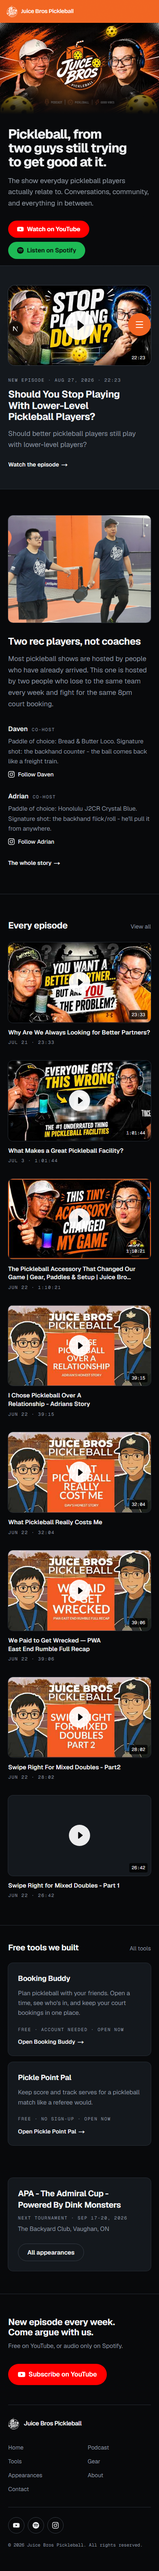
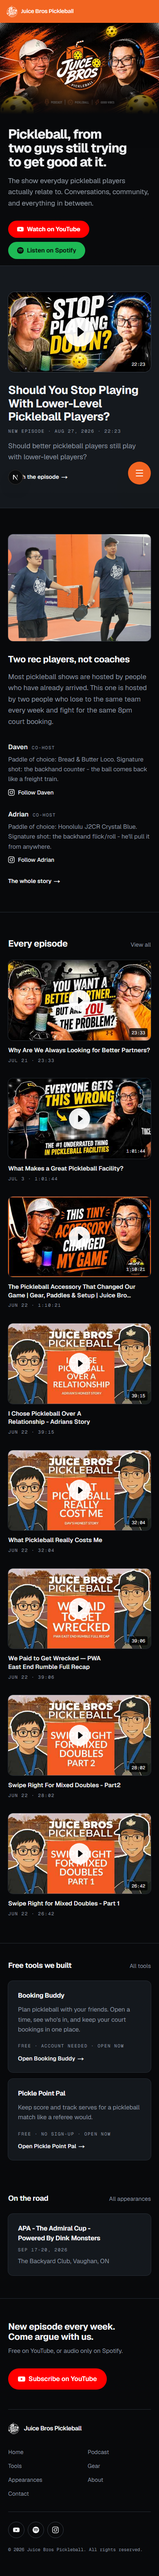
Home: apply the finish reviewer's seven material fixes
The reviewer returned `fix` on the layout pass. All seven applied:

1. The heading ladder collapsed below 640px - every clamp bottomed out on
   its floor, so four rank tiers rendered 24/22/20px, a 4px spread, and
   the heading channel simply did not exist on a phone. Floors are now
   28/22/18/16px and a new step gets checked at 390 before 1440.
2. The `New episode · date · runtime` line sat above the Now Playing h2.
   A label over a heading is an eyebrow whatever data it carries, and the
   craft floor bans it outright. Metadata now follows the title, matching
   the archive cards and the tournament panel.
3. Now Playing and the hosts tied on heading step, and the hosts had more
   air than the band - so of three rank channels, two said the hosts
   outranked the newest episode. The hosts drop to the headline step and
   the band takes the most air on the page.
4. The tournament had no section label; once its hairline went it was an
   unidentifiable card floating in the shelf. It now uses the shelf's own
   pattern: a label heading with its "All appearances" link, then a panel.
5. An archive card's thumbnail link is aria-hidden/tabIndex -1, so
   `.bx-tile:focus-visible` could never fire and keyboard visitors got a
   focus ring with none of the page's one gesture. `.bx-card:focus-within`
   mirrors it.
6. Three identical-looking arrow links behaved two ways. All three now
   carry the same nudge.
7. The raised fill was documented at "~1.2:1" and measures 1.12:1.
[…]

diff --git a/src/app/(home)/sections/now-playing.tsx b/src/app/(home)/sections/now-playing.tsx
@@ -6,7 +6,9 @@ import { PlayMark } from "./play-mark";
 import { formatAired, formatRuntime } from "./format";
 
 /**
- * The newest episode, on the page's one raised band directly under the hero.
+ * The newest episode, on the page's one raised band directly under the hero,
+ * and the page's rank-one section: the peak heading step, the most vertical
+ * air on the page, and the only lighter ground.
  *
  * The hero owns the whole first screen (Adrian's call - the two hosts in
  * frame), so this is where the page pays back the missing playable thing: the
@@ -20,7 +22,7 @@ export function NowPlaying({ episode }: { episode: Episode }) {
 
   return (
     <section className="bx-band">
-      <div className="bx-measure py-12 sm:py-16 lg:py-20">
+      <div className="bx-measure py-16 sm:py-24 lg:py-28">
         <div className="grid gap-7 lg:grid-cols-[minmax(0,38rem)_1fr] lg:items-center lg:gap-12">
           <Link
             href={`/podcast/${episode.slug}`}
@@ -41,14 +43,11 @@ export function NowPlaying({ episode }: { episode: Episode }) {
           </Link>
 
           <div>
-            <p className="bx-meta">
-              New episode
-              <span aria-hidden> · </span>
-              {formatAired(episode.published)}
-              <span aria-hidden> · </span>
-              {formatRuntime(episode.duration)}
-            </p>
-            <h2 className="bx-h2 mt-3 max-w-[20ch] text-[clamp(1.5rem,3.4vw,2.125rem)]">
+            {/* Title first, metadata under it - the same order the archive
+                cards and the tournament panel use. A label above a heading is
+                an eyebrow whatever data it carries, and it made the largest
+                type in the section the second thing read. */}
+            <h2 className="bx-h2 max-w-[20ch] text-[clamp(1.75rem,3.4vw,2.125rem)]">
               <Link
                 href={`/podcast/${episode.slug}`}
                 className="transition-colors duration-200 hover:text-[var(--bx-muted)]"
@@ -56,6 +55,13 @@ export function NowPlaying({ episode }: { episode: Episode }) {
                 {episodeMetaTitle(episode.title)}
               </Link>
             </h2>
+            <p className="bx-meta mt-3">
+              New episode
+              <span aria-hidden> · </span>
+              {formatAired(episode.published)}
+              <span aria-hidden> · </span>
+              {formatRuntime(episode.duration)}
+            </p>
             {hook && (
               <p className="mt-3.5 max-w-[48ch] text-[1.0625rem] leading-relaxed text-[var(--bx-muted)]">
                 {hook}
@@ -63,10 +69,10 @@ export function NowPlaying({ episode }: { episode: Episode }) {
             )}
             <Link
               href={`/podcast/${episode.slug}`}
-              className="mt-6 inline-flex text-sm font-semibold transition-colors duration-200 hover:text-[var(--bx-muted)]"
+              className="group mt-6 inline-flex text-sm font-semibold transition-colors duration-200 hover:text-[var(--bx-muted)]"
             >
               Watch the episode
-              <span aria-hidden className="ml-1.5">
+              <span aria-hidden className="ml-1.5 inline-block transition-transform duration-200 group-hover:translate-x-0.5">
                 &rarr;
               </span>
             </Link>

diff --git a/src/app/globals.css b/src/app/globals.css
@@ -2428,9 +2428,10 @@ html:has(.bb-app-chrome) {
        The steps are set to what a screen can actually show: the first build
        had rings at 1.16:1 and a raised fill at 1.07:1 against the ground,
        which is a value difference on paper and nothing at all on a panel.
-       Now the resting ring sits at ~1.4:1 (the register Vercel's dark border
-       uses), the hover ring at ~1.75:1, and the raised fill at ~1.2:1 -
-       enough that a full-width band reads as a band. */
+       Measured off the shipped pixels, the resting ring now sits at 1.42:1
+       (the register Vercel's dark border uses), the hover ring at 1.81:1, and
+       the raised fill at 1.12:1 - lower than either line, and enough only
+       because it is spent across a full-bleed region rather than a hairline. */
     --bx-bg: #08090b;
     --bx-raised: #14181d;
     --bx-raised-2: #1b2027;
@@ -2496,7 +2497,9 @@ html:has(.bb-app-chrome) {
     letter-spacing: -0.02em;
     line-height: 1.15;
   }
-  /* Metadata only: dates, runtimes, counts, section kickers. Never body copy. */
+  /* Metadata only: dates, runtimes, counts. Never body copy, and never above
+     the heading it belongs to - a label over a heading is an eyebrow whatever
+     data it carries. It sits beneath. */
   .bx-meta {
     font-family: var(--font-geist-mono), ui-monospace, monospace;
     font-size: 0.6875rem;
@@ -2562,6 +2565,20 @@ html:has(.bb-app-chrome) {
   .bx-tile:hover, .bx-tile:focus-visible { box-shadow: 0 0 0 1px var(--bx-line), var(--bx-shadow); }
 
   .bx-stage { border-radius: var(--bx-radius-lg); }
+
+  /* An archive card's thumbnail link is `aria-hidden` with `tabIndex={-1}` -
+     the title beside it is the real link - so `.bx-tile:focus-visible` can
+     never fire there, and a keyboard visitor got a focus ring with none of the
+     page's one gesture. Mirror it from the card, so tabbing a title lifts its
+     thumbnail exactly as pointing at it does. */
+  .bx-card:focus-within .bx-tile { box-shadow: 0 0 0 1px var(--bx-line), var(--bx-shadow); }
+  .bx-card:focus-within .bx-play { background: #fff; scale: 1.06; }
+  @media (prefers-reduced-motion: no-preference) {
+    .bx-card:focus-within .bx-tile { transform: translateY(-3px); }
+  }
+  @media (prefers-reduced-motion: reduce) {
+    .bx-card:focus-within .bx-play { scale: 1; }
+  }
 
   /* The play affordance, drawn rather than borrowed from an icon set. */
   .bx-play {

diff --git a/src/app/(home)/sections/on-the-road.tsx b/src/app/(home)/sections/on-the-road.tsx
@@ -6,6 +6,11 @@ import { formatAppearanceDates, nextConfirmedAppearance } from "@/lib/appearance
 /**
  * The next confirmed tournament. Renders nothing when there is no confirmed
  * date, rather than printing an empty promise.
+ *
+ * Built in the shelf's own pattern - a section label with its "all of them"
+ * link, then the panel - so the shelf reads as two matching sections rather
+ * than one labelled section plus an unidentifiable card. Without the label the
+ * only thing naming this section was an 11px mono line inside the panel.
  */
 export function OnTheRoad() {
   const next = nextConfirmedAppearance(appearances);
@@ -13,19 +18,20 @@ export function OnTheRoad() {
 
   return (
     <section className="bx-measure py-10 sm:py-14">
-      <div className="bx-panel flex flex-col gap-6 p-6 sm:flex-row sm:items-center sm:justify-between sm:p-8">
-        <div>
-          <h2 className="bx-h2 max-w-[26ch] text-xl">{next.name}</h2>
-          <p className="bx-meta mt-2.5">
-            Next tournament
-            <span aria-hidden> · </span>
-            {formatAppearanceDates(next)}
-          </p>
-          <p className="mt-2 text-[0.9375rem] text-[var(--bx-muted)]">{next.location}</p>
-        </div>
-        <Link href="/appearances" className="bx-btn bx-btn-ghost shrink-0 self-start sm:self-auto">
+      <div className="flex items-baseline justify-between gap-6">
+        <h2 className="bx-h2 text-lg sm:text-xl">On the road</h2>
+        <Link
+          href="/appearances"
+          className="text-sm text-[var(--bx-muted)] transition-colors duration-200 hover:text-[var(--bx-ink)]"
+        >
           All appearances
         </Link>
+      </div>
+
+      <div className="bx-panel mt-6 p-6 sm:p-7">
+        <h3 className="bx-h2 max-w-[26ch] text-base sm:text-lg">{next.name}</h3>
+        <p className="bx-meta mt-2">{formatAppearanceDates(next)}</p>
+        <p className="mt-2 text-[0.9375rem] text-[var(--bx-muted)]">{next.location}</p>
       </div>
     </section>
   );

diff --git a/src/app/(home)/sections/the-hosts.tsx b/src/app/(home)/sections/the-hosts.tsx
@@ -4,7 +4,7 @@ import { team } from "@/content/team";
 import { InstagramIcon } from "@/components/icons";
 
 /**
- * The two hosts, third on the page and its second peak.
+ * The two hosts, third on the page.
  *
  * The h1 claims "two guys still trying to get good at it"; this is the only
  * section that proves it - real names, the on-court photo, the paddle each of
@@ -41,7 +41,10 @@ export function TheHosts() {
         </figure>
 
         <div>
-          <h2 className="bx-h2 text-[clamp(1.5rem,3.4vw,2.125rem)]">
+          {/* The headline step, not the peak one: this section outranks the
+              shelf and ties the archive, but the newest episode leads the page
+              and has to be able to say so. */}
+          <h2 className="bx-h2 text-[clamp(1.375rem,3.2vw,1.875rem)]">
             Two rec players, not coaches
           </h2>
           <p className="mt-4 max-w-[46ch] text-[1.0625rem] leading-relaxed text-[var(--bx-muted)]">
@@ -75,10 +78,10 @@ export function TheHosts() {
 
           <Link
             href="/about"
-            className="mt-8 inline-flex text-sm font-semibold transition-colors duration-200 hover:text-[var(--bx-muted)]"
+            className="group mt-8 inline-flex text-sm font-semibold transition-colors duration-200 hover:text-[var(--bx-muted)]"
           >
             The whole story
-            <span aria-hidden className="ml-1.5">
+            <span aria-hidden className="ml-1.5 inline-block transition-transform duration-200 group-hover:translate-x-0.5">
               &rarr;
             </span>
           </Link>

diff --git a/src/app/(home)/sections/free-tools.tsx b/src/app/(home)/sections/free-tools.tsx
@@ -16,7 +16,7 @@ export function FreeTools() {
   return (
     <section className="bx-measure bx-hair py-10 sm:py-14">
       <div className="flex items-baseline justify-between gap-6">
-        <h2 className="bx-h2 text-xl">Free tools we built</h2>
+        <h2 className="bx-h2 text-lg sm:text-xl">Free tools we built</h2>
         <Link
           href="/tools"
           className="text-sm text-[var(--bx-muted)] transition-colors duration-200 hover:text-[var(--bx-ink)]"
@@ -28,7 +28,7 @@ export function FreeTools() {
       <div className="mt-6 grid gap-4 md:grid-cols-2">
         {apps.map((app) => (
           <Link key={app.slug} href={app.href} className="bx-panel group flex flex-col p-6 sm:p-7">
-            <h3 className="bx-h2 text-lg transition-colors duration-200 group-hover:text-[var(--bx-muted)]">
+            <h3 className="bx-h2 text-base transition-colors duration-200 group-hover:text-[var(--bx-muted)] sm:text-lg">
               {app.title}
             </h3>
             <p className="mt-2.5 max-w-[46ch] text-[0.9375rem] leading-relaxed text-[var(--bx-muted)]">

diff --git a/src/app/(home)/sections/from-instagram.tsx b/src/app/(home)/sections/from-instagram.tsx
@@ -11,7 +11,7 @@ export function FromInstagram({ posts }: { posts: InstagramPost[] }) {
   return (
     <section className="bx-measure py-10 sm:py-14">
       <div className="flex items-baseline justify-between gap-6">
-        <h2 className="bx-h2 text-xl">Between episodes</h2>
+        <h2 className="bx-h2 text-lg sm:text-xl">Between episodes</h2>
         <a
           href={siteConfig.links.instagram}
           target="_blank"

diff --git a/src/app/(home)/sections/archive.tsx b/src/app/(home)/sections/archive.tsx
@@ -33,7 +33,7 @@ export function Archive({ episodes }: { episodes: Episode[] }) {
           const runtime = formatRuntime(episode.duration);
           return (
             <li key={episode.id}>
-              <article>
+              <article className="bx-card">
                 <Link
                   href={`/podcast/${episode.slug}`}
                   className="bx-tile group aspect-video"

diff --git a/DESIGN.md b/DESIGN.md
@@ -132,7 +132,7 @@ fighting them.
 
 **Key Characteristics:**
 - Near-black page ground, one raised surface set a visible step above it (~1.2:1) with rings at ~1.4:1; no third "quiet" grey step for ink
-- The page has two peaks below the hero: Now Playing on a full-bleed raised band, then the hosts; the archive follows, and the rest is a compressed shelf
+- The page has one peak below the hero — Now Playing, on a full-bleed raised band — then the hosts and the archive as equal-rank majors, then a compressed shelf
 - Brand orange is the floating pill nav's ground and the mobile corner button's fill — the global chrome, never a private bar, and never the subscribe colour
 - Two platform colours (YouTube red, Spotify green) carry their own ink decisions, reasoned from contrast math and each platform's own brand guidance
 - One shared hover/focus gesture (lift + brighten) used identically everywhere a thumbnail appears
@@ -152,10 +152,10 @@ The palette is a near-black neutral scale plus brand orange and two destination-
 
 ### Neutral
 - **Ground** (`#08090b`): the page background — cool near-black, not warm.
-- **Raised** (`#14181d`): the one raised surface — panels, tiles, the stage, and the full-bleed Now Playing band. ~1.2:1 on the ground: the least step at which a band is still seen as a band.
+- **Raised** (`#14181d`): the one raised surface — panels, tiles, the stage, and the full-bleed Now Playing band. 1.12:1 on the ground, measured: lower than either line token, and legible only because it is spent across a full-bleed region.
 - **Raised (hover)** (`#1b2027`): the hover state of a raised panel.
-- **Line** (`#363d46`): borders on hover/focus states, and the resting ring of a tile that sits on the band (~1.75:1 on the ground).
-- **Line, soft** (`#262c34`): resting borders and hairline section dividers. ~1.4:1 on the ground, the register Vercel's dark border sits at. The first build shipped `#191d22` here, which measures 1.16:1 and did not render on a real panel — the reason the page read as "nothing sticks out".
+- **Line** (`#363d46`): borders on hover/focus states, and the resting ring of a tile that sits on the band (1.81:1 on the ground).
+- **Line, soft** (`#262c34`): resting borders and hairline section dividers. 1.42:1 on the ground, the register Vercel's dark border sits at. The first build shipped `#191d22` here, which measures 1.16:1 and did not render on a real panel — the reason the page read as "nothing sticks out".
 - **Line, strong** (`#48505a`): the hover ring of a tile on the band, one step above Line so the gesture still reads on the lighter ground.
 - **Ink** (`#f2f4f6`): primary text and iconography. Clears 6.6:1 on the ground.
 - **Muted** (`#8f98a3`): the only secondary-text step. Also clears strong contrast on the ground; there is deliberately no third, fainter grey.
@@ -163,7 +163,7 @@ The palette is a near-black neutral scale plus brand orange and two destination-
 ### Named Rules
 **The Chrome-Carries-No-Control Rule.** Brand orange is the floating pill nav's ground and the mobile corner button's fill, and the nav carries identity and links only — no subscribe pill, no button of any kind. A control on an orange ground would have to be near-black or an outline to be seen at all, and either reads weaker than the same action on the page ground. So the subscribe path lives where it can wear its own colour: the YouTube-red and Spotify-green buttons in the hero, and the YouTube-red close in the footer.
 
-**The Visible-Step Rule.** Every value step in this system has to survive a real screen. A ring or a raised fill that only differs from the ground on paper is a hierarchy that does not exist: the first build's rings measured 1.16:1 and its raised fill 1.07:1, and the page read as flat black with text on it. The floor is ~1.4:1 for a hairline or resting ring and ~1.2:1 for a fill that has to read as a region. When a new surface needs to recede, use size, weight or spacing, not a step below that floor.
+**The Visible-Step Rule.** Every value step has to survive a real screen, and the floor depends on how much area the step is spent across. A hairline or a resting ring needs **1.4:1** against its ground; a fill covering a full-bleed region gets away with **1.1:1**, because area does the work a thin line cannot. The first build ignored both: rings at 1.16:1 and a raised fill at 1.07:1, and the page read as flat black with text on it. Measure what you ship rather than estimating it — `#14181d` was documented here as "~1.2:1" and actually measures 1.12:1. When a new surface needs to recede, use size, weight or spacing, not a step below these floors.
 
 **Platform Colours Carry Their Own Ink.** The YouTube and Spotify buttons wear their destinations' brand colors, each with its own reasoned ink choice (white for YouTube red at 4.0:1, kept for brand fidelity; near-black for Spotify green at 8.2:1, both for contrast and to match Spotify's own guidance). Do not default new destination buttons to the page's ink/bg pair — resolve ink per platform color the same way.
 
@@ -181,16 +181,22 @@ The palette is a near-black neutral scale plus brand orange and two destination-
 - **Headline** (700, `clamp(1.375rem, 3.2vw, 1.875rem)` down to a fixed 1.375rem/2xl at section scale, line-height 1.15, letter-spacing −0.02em): section headings and the featured episode title.
 - **Body** (400, 1.0625rem, line-height ~1.6, `leading-relaxed`): standfirst copy, capped around 46–58ch measure.
 - **Body Small** (400, 0.9375rem, line-height ~1.6): supporting copy — card descriptions, footer text, host bios — used wherever body copy needs to sit a step down from the lead line without dropping into label territory.
-- **Label** (400, 0.6875rem, letter-spacing 0.14em, uppercase, tabular numerals, Geist Mono, muted color): dates, runtimes, counts, and the "New episode" / "Next tournament" style kickers that sit directly beside real data. Never used for body copy.
+- **Label** (400, 0.6875rem, letter-spacing 0.14em, uppercase, tabular numerals, Geist Mono, muted color): dates, runtimes and counts. Never used for body copy, and never placed above the heading it belongs to — see The Metadata-Sits-Under-Its-Heading Rule.
 
 Section headings run on three steps, and the step is what tells a visitor how much a section matters:
 
-- **Peak** (`clamp(1.5rem, 3.4vw, 2.125rem)`): the two sections the page is actually for — the Now Playing title and "Two rec players, not coaches".
-- **Headline** (`clamp(1.375rem, 3.2vw, 1.875rem)`): the episode archive, and the footer's closing line.
-- **Minor** (`1.25rem`): the supporting shelf — Free tools, the next tournament, the Instagram strip. Inside a shelf section, content headings drop a step further (`1.125rem` on the tool names) so the local hierarchy still holds.
+- **Peak** (`clamp(1.75rem, 3.4vw, 2.125rem)`): the Now Playing title, alone. This is the section the page exists to deliver, and nothing else takes this step.
+- **Headline** (`clamp(1.375rem, 3.2vw, 1.875rem)`): "Two rec players, not coaches", the episode archive, and the footer's closing line.
+- **Minor** (`1.125rem` → `1.25rem` from `sm:`): the supporting shelf — Free tools, the next tournament, the Instagram strip. Inside a shelf section, content headings drop a step further (`1rem` → `1.125rem`) so the local hierarchy still holds.
+
+**Every step keeps its floor above the next step's.** A clamp whose lower bound collapses onto its neighbour's deletes the whole channel at the viewport where most visitors are: the first version of this ladder bottomed out at 24/22/20px below 640px, a 4px spread across four ranks, so on a phone the page had no heading hierarchy at all. The floors are now 28/22/18/16px, and a new step is checked at 390px before it is checked at 1440.
 
 ### Named Rules
 **The Metadata-Only Mono Rule.** Geist Mono (`.bx-meta`) is reserved for machine-adjacent facts — a date, a runtime, a count — never for prose, section titles, or decorative labels. If a mono-styled string doesn't come from real data, it doesn't belong in `.bx-meta`.
+
+**The Metadata-Sits-Under-Its-Heading Rule.** A `.bx-meta` line always follows the heading it describes; it never sits above it. A small tracked label stacked over a heading is an eyebrow no matter how real its data, and it costs the section its own title as the first thing read. The archive cards, the tournament panel and Now Playing all run title-then-metadata.
+
+**One Arrow Behaviour.** Every inline `→` link on the page (`Watch the episode`, `The whole story`, `Open <tool>`) carries the same `group-hover:translate-x-0.5` nudge. Three identical-looking links behaving two different ways is the scattered-effect failure; either all of them move or none do.
 
 ## Layout
 
@@ -198,9 +204,9 @@ One `bx-measure` container (max-width 72rem, centered, 1.25rem inline padding be
 
 **Vertical rhythm encodes rank; it is not one repeated value.** Three tiers, matched to the heading steps above and to the page's job (audience growth on YouTube and Spotify):
 
-- **Major** (`py-16 sm:py-24`): the hosts and the archive — the positioning proof and the catalogue.
-- **Band** (`py-12 sm:py-16 lg:py-20` inside `.bx-band`): Now Playing.
-- **Shelf** (`py-10 sm:py-14`): Free tools, the next tournament, the Instagram strip.
+- **Band** (`py-16 sm:py-24 lg:py-28` inside `.bx-band`): Now Playing. The most air on the page, as well as the only lighter ground and the only peak heading — rank one has to win in every channel, or the channels argue with each other.
+- **Major** (`py-16 sm:py-24`): the hosts and the archive — the positioning proof and the catalogue. Peers by rank, told apart by composition (a 26rem photo and prose against a dense four-column grid) rather than by size.
+- **Shelf** (`py-10 sm:py-14`): Free tools, the next tournament, the Instagram strip. Each shelf section carries a label heading and its own "all of them" link, so the zone reads as matching sections rather than one labelled section beside an unidentifiable card.
 
 **Hairlines group, they do not decorate.** `.bx-hair` (1px `bx-line-soft` top border) opens the archive and opens the shelf, and that is all. The three shelf sections run with no rules between them so they read as one supporting zone rather than three peers of the archive, and the hosts section carries no hairline at all because the band directly above it already ends on a border — a second rule there would double it. Adding a hairline to every section is what made the first build read as a flat plateau of equals.
 
@@ -245,6 +251,7 @@ Two radius steps cover the whole system: `0.75rem` (`--bx-radius`) for standard 
 ### Cards / Containers
 - **`.bx-panel`:** the generic raised block (tool cards, the appearance panel). 0.75rem radius, `--bx-raised` background, 1px resting ring, hover brightens to `--bx-raised-2` when the panel itself is a link.
 - **`.bx-band`:** the full-bleed raised passage. `--bx-raised` background, 1px `--bx-line-soft` top and bottom, no radius — it is a region of the page, not an object on it. Used once, for Now Playing.
+- **`.bx-card`:** the archive card wrapper. Its thumbnail link is `aria-hidden`/`tabIndex={-1}` (the title beside it is the real link), so `.bx-tile:focus-visible` can never fire on it; `.bx-card:focus-within` mirrors the full gesture instead, and a keyboard visitor gets the same lift a pointer does.
 - **`.bx-tile` (the signature gesture):** every thumbnail-bearing surface — the hero stage, archive cards, Instagram grid, the hosts' photo — is a `.bx-tile`. One hover/focus treatment (lift 3px, ring brightens, shadow appears, its `.bx-play` mark brightens and scales to 1.06) is applied identically everywhere a thumbnail exists, so the whole page has one gesture instead of scattered per-component effects. `.bx-stage` is a `.bx-tile` modifier that only changes the radius (1rem) and enlarges the play mark.
 - **Internal Padding:** panels use `p-6`–`p-8` (1.5–2rem); tiles have no internal padding — the image fills the tile edge-to-edge.
 

diff --git a/.impeccable/surfaces/src-app-home.md b/.impeccable/surfaces/src-app-home.md
@@ -88,8 +88,9 @@ banner photo of both hosts, which owns the whole first screen. Low on the
 photo: the positioning line as the h1, a one-line standfirst, Watch on YouTube
 (YouTube red) and Listen on Spotify (Spotify green). Directly beneath, the
 page's one raised band: the newest episode's stage at 16:9 up to 44rem with the
-play affordance and runtime chip, and beside it the date kicker, the title one
-step above every other section heading, the hook, and a Watch the episode link.
+play affordance and runtime chip, and beside it the title one step above every
+other section heading, the date and runtime beneath it, the hook, and a Watch
+the episode link.
 Below 640px the banner is a 14rem in-flow strip under the orange identity strip,
 and the copy sits on the page ground beneath it.
 
